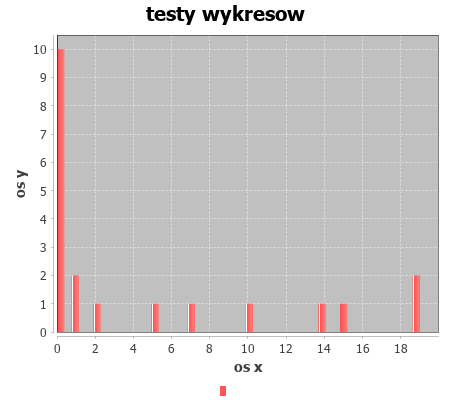
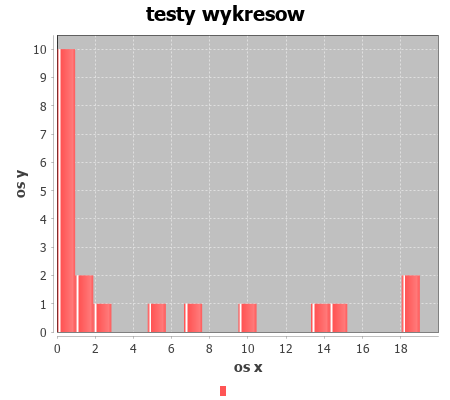
Beggining of federation implementation

diff --git a/src/main/java/pl/mdabkowski/Cloud.java b/src/main/java/pl/mdabkowski/Cloud.java
@@ -1,0 +1,79 @@
+package pl.mdabkowski;
+
+public class Cloud {
+    private int resourcesNumber;
+    private int resourcesNumberPrivate;
+    private int resourcesNumberPublic;
+    private int timeSize;
+    private double lambda;
+    private double[] poisson;
+    private double[] result;
+    private double[] notOperatedArray;
+    private double[] operatedArray;
+
+    public int getResourcesNumber() {
+        return resourcesNumber;
+    }
+
+    public void setResourcesNumber(int resourcesNumber) {
+        this.resourcesNumber = resourcesNumber;
+    }
+
+    public int getTimeSize() {
+        return timeSize;
+    }
+
+    public void setTimeSize(int timeSize) {
+        this.timeSize = timeSize;
+    }
+
+    public double getLambda() {
+        return lambda;
+    }
+
+    public void setLambda(double lambda) {
+        this.lambda = lambda;
+    }
+
+    public double[] getPoisson() {
+        return poisson;
+    }
+
+    public void setPoisson(double[] poisson) {
+        this.poisson = poisson;
+    }
+
+    public Cloud(int resourcesNumber, int timeSize, double lambda){
+        this.lambda=lambda;
+        this.resourcesNumber=resourcesNumber;
+        this.timeSize=timeSize;
+        this.poisson = Poisson.calculate(timeSize,lambda);
+        notOperatedArray = new double[timeSize];
+        operatedArray = new double[timeSize];
+    }
+    public void serviceCheck() {
+        int operated = 0;
+        int notOperated = 0;
+
+        for (int i = 0; i < timeSize; i++) {
+            if (resourcesNumber >= (int) poisson[i]) {
+                operated += (int) poisson[i];
+                operatedArray[i] = (int) poisson[i];
+                notOperatedArray[i] = 0;
+            } else {
+                operated += resourcesNumber;
+                notOperated += ((int) poisson[i] - resourcesNumber);
+                operatedArray[i] = resourcesNumber;
+                notOperatedArray[i] = ((int) poisson[i] - resourcesNumber);
+            }
+            System.out.println("for i number: "+ i+ "cloud operated: "+operated+"cloud have not operated: "+notOperated);
+        }
+    }
+    public void showResult(){
+        for (int i = 0;i < timeSize;i++){
+            System.out.println("for i number: "+ i+ "cloud operated: "+operatedArray[i]+"cloud have not operated: "+notOperatedArray[i]);
+        }
+
+    }
+
+}

diff --git a/src/main/java/pl/mdabkowski/Federation.java b/src/main/java/pl/mdabkowski/Federation.java
@@ -1,0 +1,43 @@
+package pl.mdabkowski;
+
+import java.util.List;
+
+public class Federation {
+    private List<Cloud> federation;
+    private double publicResourcesNumber;
+    private double temp;
+    public void addFederation(Cloud newCloud){
+        federation.add(newCloud);
+    }
+    public Federation(double temp){
+        this.temp = temp;
+    }
+    private int findSmallestResourceNumber(){
+        int result = federation.get(0).getResourcesNumber();
+        for(int i = 0;i<federation.size();i++){
+            if(result>federation.get(i).getResourcesNumber()){
+                result=federation.get(i).getResourcesNumber();
+            }
+        }
+        return result;
+    }
+
+    private void setPublicResourcesNumber(){
+        int smallest = findSmallestResourceNumber();
+        publicResourcesNumber = temp*smallest;
+    }
+    private int setCategory1PrivateResourcesNumber(){
+        int result=0;
+        return result;
+    }
+    private int setCategory2PrivateResourcesNumber(){
+        int result=0;
+        return result;
+    }
+    public void calculate(){
+        for(int i=0;i<federation.size();i++){
+
+        }
+    }
+
+}

diff --git a/src/main/java/pl/mdabkowski/Main.java b/src/main/java/pl/mdabkowski/Main.java
@@ -8,22 +8,28 @@ import org.jfree.data.statistics.HistogramDataset;
 import java.io.File;
 import java.io.IOException;
 
+import static pl.mdabkowski.Poisson.calculate;
+
+
+
 public class Main {
+    public static int TIME_SIZE = 20;
     public static void main(String[] args) throws IOException {
-    int[] test = new int[20];
-    test = Poisson.calculate(20,4);
-    double[] result = new double[test.length];
-    Chart chart = new Chart();
-    result = convertToDouble(test);
-    chart.createChart(result,"test","testy wykresow","os x","os y");
+
+        Cloud c1 = new Cloud(10,TIME_SIZE,0.2);
+        showArray(c1.getPoisson());
+        Cloud c2 = new Cloud(8,TIME_SIZE,40);
+        showArray(c2.getPoisson());
+        c2.serviceCheck();
+        c2.showResult();
     }
 
-    public static double[] convertToDouble(int[] test) {
-        double[] result = new double[test.length];
+    public static void showArray(double[] test) {
+
         for(int i =0;i<test.length;i++){
-            result[i] = (double)test[i];
+            System.out.println("dla i:" + i +"wynik to: "+test[i]);
         }
-    return result;
+
     }
 
 }

diff --git a/src/main/java/pl/mdabkowski/Chart.java b/src/main/java/pl/mdabkowski/Chart.java
@@ -8,13 +8,18 @@ import java.io.File;
 import java.io.IOException;
 public class Chart  {
     String fileName;
-    JFreeChart histogram;
+    JFreeChart chartResult;
 
-    void createChart(double[] values,String fileName,String title,String xAxisName,String yAxisName) throws IOException{
+    /*void createChart(double[] values,String fileName,String title,String xAxisName,String yAxisName) throws IOException{
         var dataset = new HistogramDataset();
-        dataset.addSeries("",values,50);
+        dataset.addSeries("",values,20);
 
-        JFreeChart histogram = ChartFactory.createHistogram(title,xAxisName,yAxisName,dataset);
+        JFreeChart chartResult = ChartFactory.createHistogram(title,xAxisName,yAxisName,dataset);
         ChartUtils.saveChartAsPNG(new File(fileName+".png"), histogram, 450, 400);
-    }
+    }*/
+
+    /*void createChart(double[] values,String fileName,String title,String xAxisName,String yAxisName){
+    int size = values.length;
+        chartResult =
+    }*/
 }

diff --git a/src/main/java/pl/mdabkowski/Poisson.java b/src/main/java/pl/mdabkowski/Poisson.java
@@ -2,10 +2,15 @@ package pl.mdabkowski;
 
 
 public class Poisson {
-    public static int[] calculate(int k, double lambda){
-        int[] result = new int[k];
+    public static double[] calculate(int k, double lambda){
+        double[] result = new double[k];
         for(int i =0;i<k;i++){
-            result[i] = (int) (poisson(i, lambda)*100);
+            if(poisson(i, lambda)*100<1) {
+                result[i]=0;
+
+            }else{
+                result[i] = poisson(i, lambda)*100;
+            }
         }
         return result;
     }
